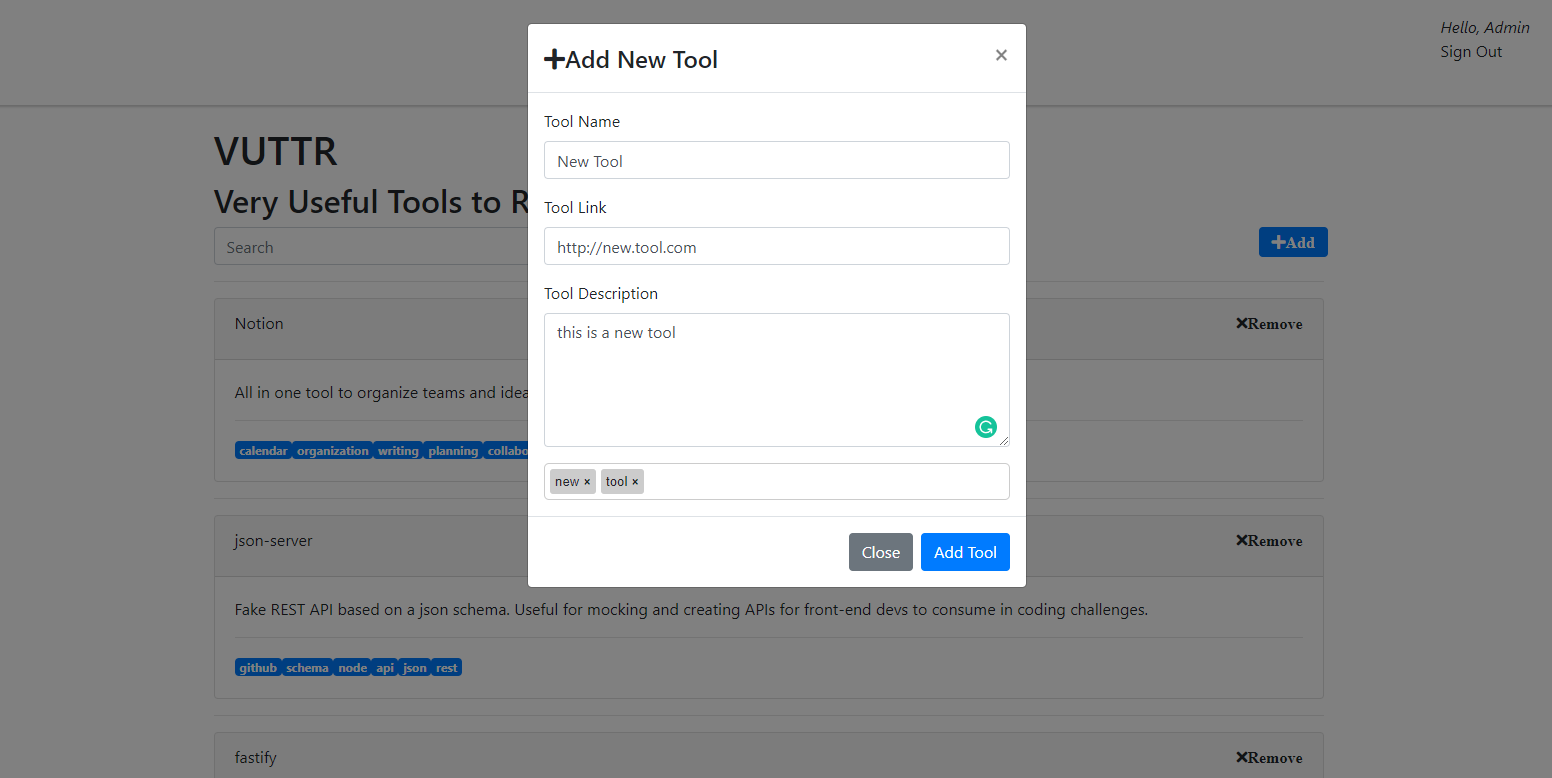
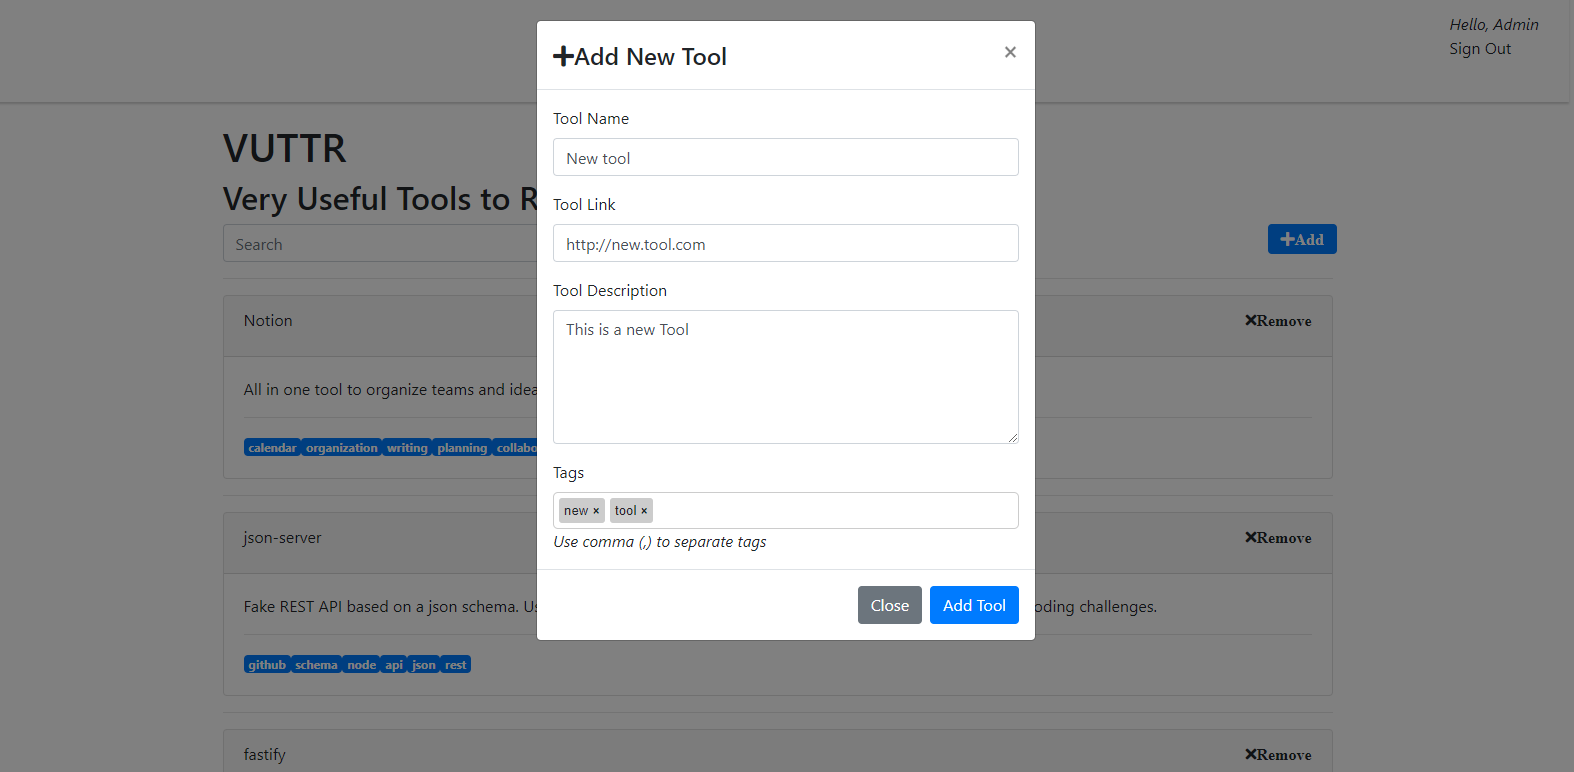
update readme

diff --git a/vuttr-cli/src/pages/Tool/ToolNew.jsx b/vuttr-cli/src/pages/Tool/ToolNew.jsx
@@ -111,10 +111,13 @@ class ToolNew extends React.Component {
                                                 />
                                             </Row>
                                             {/* // ///////////////////////////////////////////////////////////// */}
+                                            <label>{t('tool_tags')}</label>
+                                            
                                             <Chips
                                                 value={this.state.chips}
                                                 onChange={(chips) => this.setState({ chips })}
                                             />
+                                            <i>{t('tool_tags_hint')}</i>
                                             {/* // ///////////////////////////////////////////////////////////// */}
                                         </>
                                     }

diff --git a/README.md b/README.md
@@ -118,10 +118,10 @@ Response:
 ### Tools
 ![Page_2](https://github.com/MiguelEcar/vuttr/blob/a537612752f110a55eddb77f2f45c1d432165687/Screenshots/tools.png?raw=true)
 
-### Tools
+### Create Tool
 ![Page_3](https://github.com/MiguelEcar/vuttr/blob/a537612752f110a55eddb77f2f45c1d432165687/Screenshots/new_tool.png?raw=true)
 
-### Tools
+### Remove Tool
 ![Page_4](https://github.com/MiguelEcar/vuttr/blob/a537612752f110a55eddb77f2f45c1d432165687/Screenshots/remove_tool.png?raw=true)
 
 
